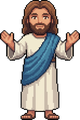
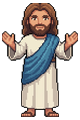
Revert zoom experiment and add top headroom to NPC sprites

diff --git a/apps/mobile-app/app/(tabs)/world.tsx b/apps/mobile-app/app/(tabs)/world.tsx
@@ -55,17 +55,6 @@ function clamp01(value: number) {
   return Math.max(0, Math.min(1, value));
 }
 
-function clampZoom(value: number) {
-  return Math.max(1, Math.min(1.8, value));
-}
-
-function getTouchDistance(touches: readonly { pageX: number; pageY: number }[]) {
-  if (touches.length < 2) return 0;
-  const dx = touches[0].pageX - touches[1].pageX;
-  const dy = touches[0].pageY - touches[1].pageY;
-  return Math.hypot(dx, dy);
-}
-
 export default function WorldScreen() {
   const { loading, snapshot, addRuntimeTask, chatDraft, setChatDraft, attendanceReward } = useWorldStore();
   const { height: windowHeight } = useWindowDimensions();
@@ -77,7 +66,6 @@ export default function WorldScreen() {
   const [keyboardVisible, setKeyboardVisible] = useState(false);
   const [npcReaction, setNpcReaction] = useState<string | null>(null);
   const [panelVisible, setPanelVisible] = useState({ header: true, brief: true });
-  const [worldZoom, setWorldZoom] = useState(1);
   const [jesusAnchor, setJesusAnchor] = useState({ nx: 0.5, ny: 0.64 });
   const [mariaAnchor, setMariaAnchor] = useState({ nx: 0.73, ny: 0.59 });
   const [worldSize, setWorldSize] = useState({ width: 1, height: 1 });
@@ -93,8 +81,6 @@ export default function WorldScreen() {
   const jesusTopRef = useRef(0);
   const mariaLeftRef = useRef(0);
   const mariaTopRef = useRef(0);
-  const pinchStartDistanceRef = useRef(0);
-  const pinchStartZoomRef = useRef(1);
 
   useEffect(() => {
     const incoming = chatDraft.trim();
@@ -220,40 +206,6 @@ export default function WorldScreen() {
     setTimeout(() => setNpcReaction(null), 1300);
   };
 
-  const pinchZoomResponder = useMemo(
-    () =>
-      PanResponder.create({
-        onStartShouldSetPanResponder: (evt) => evt.nativeEvent.touches.length >= 2,
-        onMoveShouldSetPanResponder: (evt) => evt.nativeEvent.touches.length >= 2,
-        onStartShouldSetPanResponderCapture: (evt) => evt.nativeEvent.touches.length >= 2,
-        onMoveShouldSetPanResponderCapture: (evt) => evt.nativeEvent.touches.length >= 2,
-        onPanResponderTerminationRequest: () => false,
-        onPanResponderGrant: (evt) => {
-          const distance = getTouchDistance(evt.nativeEvent.touches);
-          pinchStartDistanceRef.current = distance;
-          pinchStartZoomRef.current = worldZoom;
-        },
-        onPanResponderMove: (evt) => {
-          if (evt.nativeEvent.touches.length < 2) return;
-          const distance = getTouchDistance(evt.nativeEvent.touches);
-          if (!pinchStartDistanceRef.current) {
-            pinchStartDistanceRef.current = distance;
-            pinchStartZoomRef.current = worldZoom;
-            return;
-          }
-          const ratio = distance / pinchStartDistanceRef.current;
-          setWorldZoom(clampZoom(Number((pinchStartZoomRef.current * ratio).toFixed(3))));
-        },
-        onPanResponderRelease: () => {
-          pinchStartDistanceRef.current = 0;
-        },
-        onPanResponderTerminate: () => {
-          pinchStartDistanceRef.current = 0;
-        },
-      }),
-    [worldZoom]
-  );
-
   const executeCommand = async (text: string) => {
     const ts = Date.now();
     setWorldMessages((prev) => [...prev, { id: `wu-${ts}`, role: "user", text }]);
@@ -297,10 +249,8 @@ export default function WorldScreen() {
         onPanResponderMove: (_, gesture) => {
           const maxX = Math.max(1, worldSize.width - jesusW);
           const maxY = Math.max(1, worldSize.height - jesusH);
-          const scaledDx = gesture.dx / worldZoom;
-          const scaledDy = gesture.dy / worldZoom;
-          const nextX = Math.max(0, Math.min(maxX, dragStartRef.current.x + scaledDx));
-          const nextY = Math.max(0, Math.min(maxY, dragStartRef.current.y + scaledDy));
+          const nextX = Math.max(0, Math.min(maxX, dragStartRef.current.x + gesture.dx));
+          const nextY = Math.max(0, Math.min(maxY, dragStartRef.current.y + gesture.dy));
           const nextAnchor = { nx: nextX / maxX, ny: nextY / maxY };
           jesusAnchorRef.current = nextAnchor;
           setJesusAnchor(nextAnchor);
@@ -312,7 +262,7 @@ export default function WorldScreen() {
           void persistJesusAnchor(jesusAnchorRef.current.nx, jesusAnchorRef.current.ny);
         },
       }),
-    [jesusH, jesusW, worldSize.height, worldSize.width, worldZoom]
+    [jesusH, jesusW, worldSize.height, worldSize.width]
   );
 
   const mariaPanResponder = useMemo(
@@ -330,10 +280,8 @@ export default function WorldScreen() {
           if (!mariaUnlocked) return;
           const maxX = Math.max(1, worldSize.width - mariaW);
           const maxY = Math.max(1, worldSize.height - mariaH);
-          const scaledDx = gesture.dx / worldZoom;
-          const scaledDy = gesture.dy / worldZoom;
-          const nextX = Math.max(0, Math.min(maxX, mariaDragStartRef.current.x + scaledDx));
-          const nextY = Math.max(0, Math.min(maxY, mariaDragStartRef.current.y + scaledDy));
+          const nextX = Math.max(0, Math.min(maxX, mariaDragStartRef.current.x + gesture.dx));
+          const nextY = Math.max(0, Math.min(maxY, mariaDragStartRef.current.y + gesture.dy));
           const nextAnchor = { nx: nextX / maxX, ny: nextY / maxY };
           mariaAnchorRef.current = nextAnchor;
           setMariaAnchor(nextAnchor);
@@ -343,7 +291,7 @@ export default function WorldScreen() {
           void persistMariaAnchor(mariaAnchorRef.current.nx, mariaAnchorRef.current.ny);
         },
       }),
-    [mariaH, mariaUnlocked, mariaW, worldSize.height, worldSize.width, worldZoom]
+    [mariaH, mariaUnlocked, mariaW, worldSize.height, worldSize.width]
   );
 
   if (loading || !snapshot || !selected) {
@@ -360,17 +308,60 @@ export default function WorldScreen() {
         <View style={{ flex: 1, paddingHorizontal: 16, paddingTop: 10, paddingBottom: 0, gap: 6 }}>
           {!keyboardVisible ? (
             <View
-              {...pinchZoomResponder.panHandlers}
               onLayout={(e) => setWorldSize({ width: e.nativeEvent.layout.width, height: e.nativeEvent.layout.height })}
               style={{ height: worldHeight, borderRadius: 22, borderWidth: 1, borderColor: "rgba(255,255,255,0.08)", overflow: "hidden", backgroundColor: "#131313" }}
             >
-              <View style={{ position: "absolute", inset: 0, transform: [{ scale: worldZoom }] }}>
-                <Image source={WORLD_LAYER_BG} style={{ position: "absolute", inset: 0, width: "100%", height: "100%" }} resizeMode="cover" />
-                <Image source={WORLD_LAYER_FIG_TREE} style={{ position: "absolute", inset: 0, width: "100%", height: "100%" }} resizeMode="cover" />
-                <Image source={WORLD_LAYER_NPCS} style={{ position: "absolute", inset: 0, width: "100%", height: "100%" }} resizeMode="cover" />
-                <Image source={WORLD_LAYER_OBJECTS} style={{ position: "absolute", inset: 0, width: "100%", height: "100%" }} resizeMode="cover" />
+              <Image source={WORLD_LAYER_BG} style={{ position: "absolute", inset: 0, width: "100%", height: "100%" }} resizeMode="cover" />
+              <Image source={WORLD_LAYER_FIG_TREE} style={{ position: "absolute", inset: 0, width: "100%", height: "100%" }} resizeMode="cover" />
+              <Image source={WORLD_LAYER_NPCS} style={{ position: "absolute", inset: 0, width: "100%", height: "100%" }} resizeMode="cover" />
+              <Image source={WORLD_LAYER_OBJECTS} style={{ position: "absolute", inset: 0, width: "100%", height: "100%" }} resizeMode="cover" />
 
-                <Animated.View style={{ position: "absolute", left: jesusLeft, top: jesusTop, width: jesusW, height: jesusH, zIndex: 13 }} {...panResponder.panHandlers}>
+              <Animated.View style={{ position: "absolute", left: jesusLeft, top: jesusTop, width: jesusW, height: jesusH, zIndex: 13 }} {...panResponder.panHandlers}>
+                <View
+                  style={{
+                    position: "absolute",
+                    left: "18%",
+                    right: "18%",
+                    bottom: -2,
+                    height: 8,
+                    borderRadius: 999,
+                    backgroundColor: "rgba(0,0,0,0.18)",
+                  }}
+                />
+                <View style={{ flex: 1 }}>
+                  <Image source={WORLD_JESUS_NPC} style={{ width: "100%", height: "100%" }} resizeMode="contain" />
+                </View>
+                <Animated.View
+                  pointerEvents="none"
+                  style={{
+                    position: "absolute",
+                    left: "50%",
+                    top: "50%",
+                    width: 72,
+                    height: 72,
+                    marginLeft: -36,
+                    marginTop: -36,
+                    borderRadius: 999,
+                    borderWidth: 2,
+                    borderColor: "rgba(255,234,191,0.95)",
+                    opacity: npcPulseOpacity,
+                    transform: [{ scale: npcPulseScale }],
+                  }}
+                />
+              </Animated.View>
+
+              {mariaUnlocked ? (
+                <View
+                  {...mariaPanResponder.panHandlers}
+                  style={{
+                    position: "absolute",
+                    left: mariaLeft,
+                    top: mariaTop,
+                    width: mariaW,
+                    height: mariaH,
+                    zIndex: 13,
+                  }}
+                >
                   <View
                     style={{
                       position: "absolute",
@@ -382,55 +373,9 @@ export default function WorldScreen() {
                       backgroundColor: "rgba(0,0,0,0.18)",
                     }}
                   />
-                  <View style={{ flex: 1 }}>
-                    <Image source={WORLD_JESUS_NPC} style={{ width: "100%", height: "100%" }} resizeMode="contain" />
-                  </View>
-                  <Animated.View
-                    pointerEvents="none"
-                    style={{
-                      position: "absolute",
-                      left: "50%",
-                      top: "50%",
-                      width: 72,
-                      height: 72,
-                      marginLeft: -36,
-                      marginTop: -36,
-                      borderRadius: 999,
-                      borderWidth: 2,
-                      borderColor: "rgba(255,234,191,0.95)",
-                      opacity: npcPulseOpacity,
-                      transform: [{ scale: npcPulseScale }],
-                    }}
-                  />
-                </Animated.View>
-
-                {mariaUnlocked ? (
-                  <View
-                    {...mariaPanResponder.panHandlers}
-                    style={{
-                      position: "absolute",
-                      left: mariaLeft,
-                      top: mariaTop,
-                      width: mariaW,
-                      height: mariaH,
-                      zIndex: 13,
-                    }}
-                  >
-                    <View
-                      style={{
-                        position: "absolute",
-                        left: "18%",
-                        right: "18%",
-                        bottom: -2,
-                        height: 8,
-                        borderRadius: 999,
-                        backgroundColor: "rgba(0,0,0,0.18)",
-                      }}
-                    />
-                    <Image source={WORLD_MARIA_NPC} style={{ width: "100%", height: "100%" }} resizeMode="contain" />
-                  </View>
-                ) : null}
-              </View>
+                  <Image source={WORLD_MARIA_NPC} style={{ width: "100%", height: "100%" }} resizeMode="contain" />
+                </View>
+              ) : null}
 
               {!mariaUnlocked ? (
                 <View
@@ -452,11 +397,6 @@ export default function WorldScreen() {
                 </View>
               ) : null}
 
-              <View style={{ position: "absolute", right: 12, bottom: 86, zIndex: 24 }}>
-                <View style={{ borderRadius: 999, borderWidth: 1, borderColor: "#3a3a3a", backgroundColor: "rgba(23,23,23,0.88)", paddingHorizontal: 10, paddingVertical: 4 }}>
-                  <Text style={{ color: "#d0d0d0", fontSize: 10, fontWeight: "700" }}>핀치 줌 {Math.round(worldZoom * 100)}%</Text>
-                </View>
-              </View>
 
               {panelVisible.header ? (
                 <View style={{ position: "absolute", left: 12, right: 12, top: 12, borderRadius: 12, borderWidth: 1, borderColor: "#2f2f2f", backgroundColor: "rgba(14,14,14,0.72)", paddingHorizontal: 10, paddingVertical: 8, zIndex: 20, gap: 6 }}>
